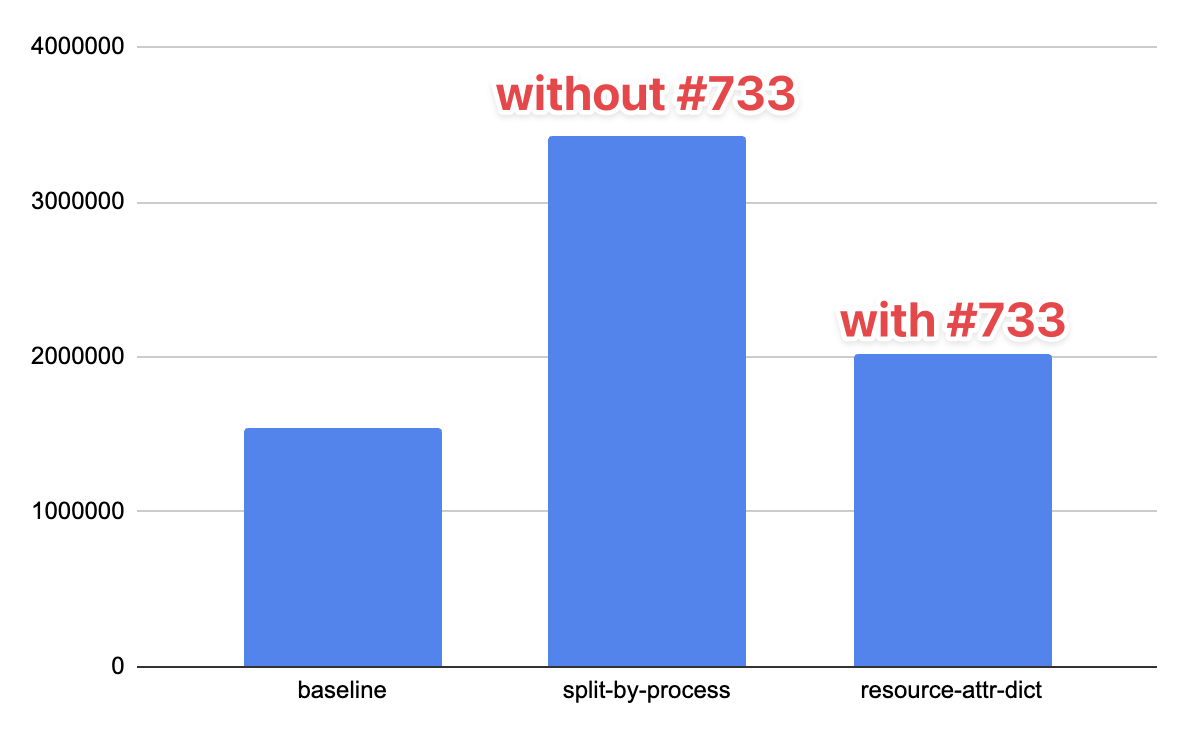
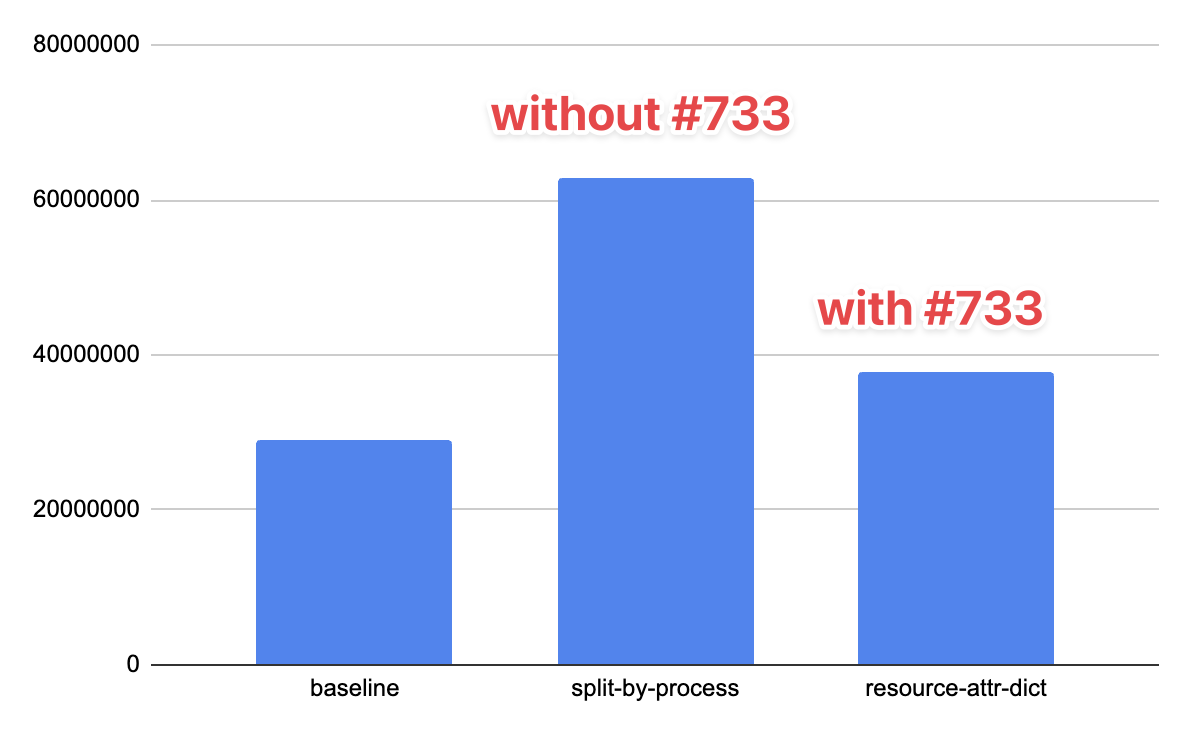
fix: payload sizes were not summed up
Luckily doesn't impact the results.

Changed region(s): [[0.0311, 0.03, 0.9639, 0.9591], [0.8706, 0.6894, 0.9639, 0.7193]]

diff --git a/otlp-bench/main.go b/otlp-bench/main.go
@@ -137,7 +137,7 @@ func (a *App) run(_ context.Context, samples int, outDir string, files ...string
 			if err != nil {
 				return fmt.Errorf("calculate baseline sizes: %w", err)
 			}
-			stats.baseline = baselineSizes
+			stats.baseline = stats.baseline.Add(baselineSizes)
 
 			byProcess := splitByProcess(baseline)
 			if err := appendTextProfileToFile(outDir, baseFilename, "split-by-process", byProcess); err != nil {
@@ -147,7 +147,7 @@ func (a *App) run(_ context.Context, samples int, outDir string, files ...string
 			if err != nil {
 				return fmt.Errorf("calculate split-by-process sizes: %w", err)
 			}
-			stats.splitByProcess = byProcessSizes
+			stats.splitByProcess = stats.splitByProcess.Add(byProcessSizes)
 
 			resourceAttrDict := useResourceAttrDict(byProcess)
 			if err := appendTextProfileToFile(outDir, baseFilename, "resource-attr-dict", resourceAttrDict); err != nil {
@@ -157,7 +157,7 @@ func (a *App) run(_ context.Context, samples int, outDir string, files ...string
 			if err != nil {
 				return fmt.Errorf("calculate resource-attr-dict sizes: %w", err)
 			}
-			stats.resourceAttrDict = resourceAttrDictSizes
+			stats.resourceAttrDict = stats.resourceAttrDict.Add(resourceAttrDictSizes)
 		}
 		payloadCount := len(baselinePayloads)
 		writeRow(csvWriter, file, "baseline", payloadCount, stats.baseline)
@@ -175,6 +175,13 @@ func (a *App) run(_ context.Context, samples int, outDir string, files ...string
 type profileSize struct {
 	uncompressed int
 	gzip6        int
+}
+
+func (p profileSize) Add(other profileSize) profileSize {
+	return profileSize{
+		uncompressed: p.uncompressed + other.uncompressed,
+		gzip6:        p.gzip6 + other.gzip6,
+	}
 }
 
 func profileSizes(profile *cprofiles.ExportProfilesServiceRequest) (profileSize, error) {

diff --git a/otlp-bench/reports/2025-11-27-gh733-resource-attr-dict/README.md b/otlp-bench/reports/2025-11-27-gh733-resource-attr-dict/README.md
@@ -6,13 +6,13 @@
 
 PR [#733](https://github.com/open-telemetry/opentelemetry-proto/pull/733) on the `opentelemetry-proto` repository aims to optimize duplicate `Resource` attribute keys and values in the same `ExportProfilesServiceRequest` payload.
 
-The report below concludes that the PR is effective and reduces the uncompressed payload size by `41%` and gzip-6 compressed payload size by `4%` for a k8s workload with frequent process forking when comparing the `split-by-process` vs `resource-attr-dict` approach.
+The report below concludes that the PR is effective and reduces the uncompressed payload size by `40%` and gzip-6 compressed payload size by `4%` for a k8s workload with frequent process forking when comparing the `split-by-process` vs `resource-attr-dict` approach.
 
 | file                       | encoding           | payloads | uncompressed_bytes | gzip_6_bytes |
 |----------------------------|--------------------|----------|--------------------|--------------|
-| testdata/k8s_big_fork.otlp | baseline           |       20 |            1546937 |       519968 |
-| testdata/k8s_big_fork.otlp | split-by-process   |       20 |            3423158 |       528406 |
-| testdata/k8s_big_fork.otlp | resource-attr-dict |       20 |            2021150 |       508097 |
+| testdata/k8s_big_fork.otlp | baseline           |       20 |           28979846 |      9321556 |
+| testdata/k8s_big_fork.otlp | split-by-process   |       20 |           62905497 |      9591208 |
+| testdata/k8s_big_fork.otlp | resource-attr-dict |       20 |           37766479 |      9220612 |
 
 A visualization of the `uncompressed_bytes` column is shown below.
 
@@ -134,18 +134,17 @@ The other workloads were taken from environments with either little or no proces
 
 The `uncompressed_gain` and `gzip_6_gain` columns show the percentage reduction in uncompressed and gzip-6 compressed payload sizes respectively when comparing the `resource-attr-dict` vs `split-by-process` approach.
 
-
 | file                       | encoding           | payloads | uncompressed_bytes | gzip_6_bytes | uncompressed_gain | gzip_6_gain |
 |----------------------------|--------------------|----------|--------------------|--------------|-------------------|-------------|
-| testdata/k8s_big_fork.otlp | baseline           |       20 |            1546937 |       519968 |                   |             |
-| testdata/k8s_big_fork.otlp | split-by-process   |       20 |            3423158 |       528406 |                   |             |
-| testdata/k8s_big_fork.otlp | resource-attr-dict |       20 |            2021150 |       508097 |            40.96% |       3.84% |
-| testdata/k8s_big.otlp      | baseline           |        4 |             563633 |       185697 |                   |             |
-| testdata/k8s_big.otlp      | split-by-process   |        4 |             805554 |       190498 |                   |             |
-| testdata/k8s_big.otlp      | resource-attr-dict |        4 |             603593 |       186018 |            25.07% |       2.35% |
-| testdata/k8s.otlp          | baseline           |        2 |              73091 |        28421 |                   |             |
-| testdata/k8s.otlp          | split-by-process   |        2 |              76653 |        29135 |                   |             |
-| testdata/k8s.otlp          | resource-attr-dict |        2 |              75596 |        28703 |             1.38% |       1.48% |
+| testdata/k8s_big_fork.otlp | baseline           |       20 |           28979846 |      9321556 |                   |             |
+| testdata/k8s_big_fork.otlp | split-by-process   |       20 |           62905497 |      9591208 |                   |             |
+| testdata/k8s_big_fork.otlp | resource-attr-dict |       20 |           37766479 |      9220612 |            39.96% |       3.86% |
+| testdata/k8s_big.otlp      | baseline           |        4 |            2238561 |       748049 |                   |             |
+| testdata/k8s_big.otlp      | split-by-process   |        4 |            3319782 |       764049 |                   |             |
+| testdata/k8s_big.otlp      | resource-attr-dict |        4 |            2436268 |       745387 |            26.61% |       2.44% |
+| testdata/k8s.otlp          | baseline           |        2 |             115707 |        46160 |                   |             |
+| testdata/k8s.otlp          | split-by-process   |        2 |             121339 |        47411 |                   |             |
+| testdata/k8s.otlp          | resource-attr-dict |        2 |             119653 |        46696 |             1.39% |       1.51% |
 | testdata/profile.otlp      | baseline           |        1 |              25115 |        10083 |                   |             |
 | testdata/profile.otlp      | split-by-process   |        1 |              26795 |        10265 |                   |             |
 | testdata/profile.otlp      | resource-attr-dict |        1 |              25536 |        10208 |             4.70% |       0.56% |
